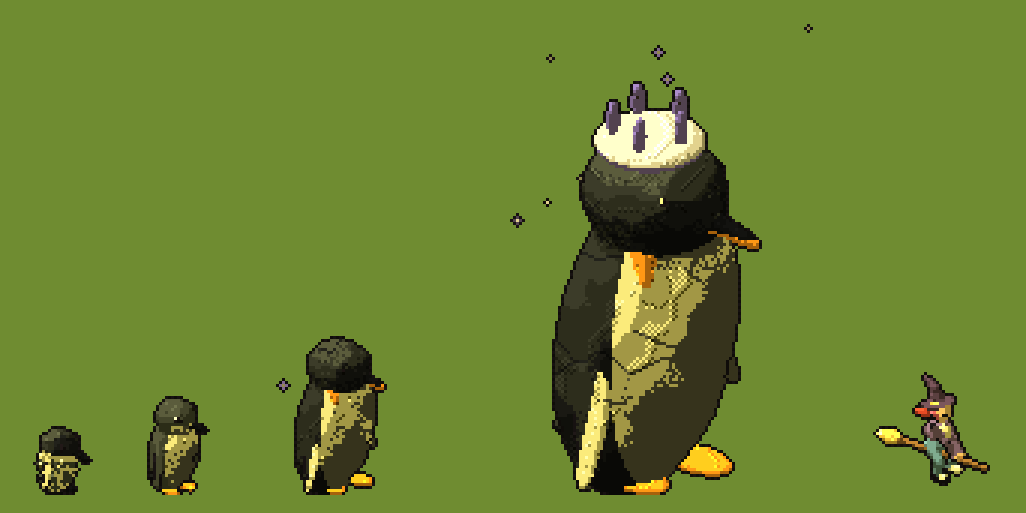
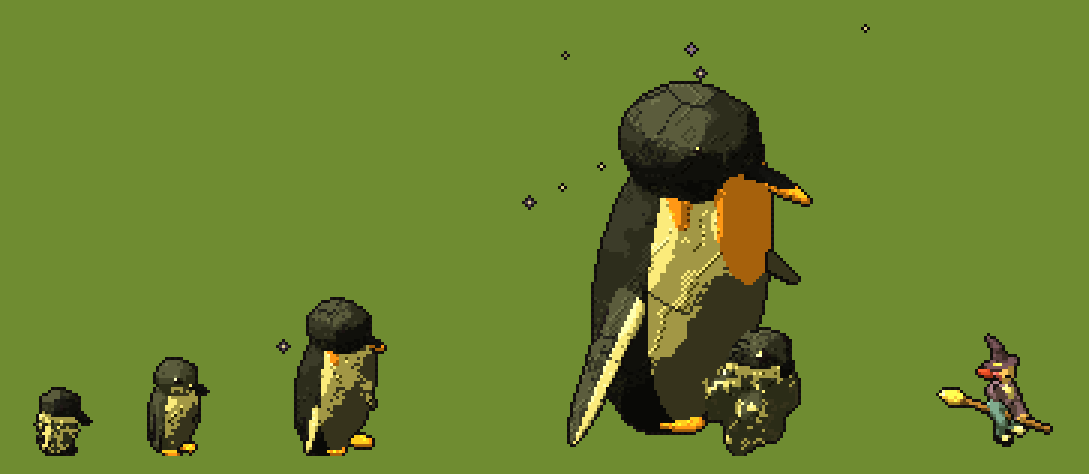
Penguin mock: the legend exaggerated (flippers flung wide, a blazing gorget, a longer beak, its chick on its feet) in place of the crown
Claude-Session: https://claude.ai/code/session_01CCJ1G3QaUxYK9jSu9176NM

diff --git a/art/creatures3d.js b/art/creatures3d.js
@@ -546,14 +546,16 @@ export function penguin3d(S, level, frame, st, facing = "towards") {
   const tilt = [.12, 1, rock];
   m.ell([0, .6, 0], [.58, .33, .3], down ? M.BELLY : young ? M.BODYL : M.BODY, { dir: tilt, up: [1, 0, 0], rough: down ? .035 : undefined, paint: p => down ? (spotty(p, 14, .45) ? M.BODYL : undefined) : p[0] > .1 - p[1] * .05 && p[1] < hy - hr * .6 ? M.BELLY : undefined });
   // flippers: flat, held out a little from its sides, their undersides pale (an adult's)
-  for (const side of [-1, 1]) m.ell([-.02, .6, side * .32], [.4, .08, .035], down ? M.BELLY : young ? M.BODYL : M.BODY, { dir: [.2, -1, side * (frame ? .65 : .45)], up: [1, 0, 0], group: side > 0 ? 4 : 2, paint: !down && !young ? p => p[0] > .02 ? M.BELLY : undefined : undefined });
+  for (const side of [-1, 1]) m.ell([-.02, .6 + (q.oars ? .06 : 0), side * .32], [q.oars ? .56 : .4, .08, .035], down ? M.BELLY : young ? M.BODYL : M.BODY, { dir: q.oars ? [.05, -.75, side * (frame ? 1 : .8)] : [.2, -1, side * (frame ? .65 : .45)], up: [1, 0, 0], group: side > 0 ? 4 : 2, paint: !down && !young ? p => p[0] > .02 ? M.BELLY : undefined : undefined });
   // head: small and round on a short neck, black (a young's grey-brown, a chick's down with a dark cap)
   m.ell([.04, hy, 0], [hr, hr * .92, hr * .9], down ? M.BELLY : young ? M.BODYL : M.BODY, { rough: down ? .02 : undefined, paint: down ? p => p[1] > hy - hr * .1 ? M.BODY : undefined : young ? p => p[0] > .04 + hr * .3 && p[1] < hy ? M.BELLY : undefined : undefined });
   // the adult's orange patch at either side of its neck, fading down onto its breast
   if (!down && !young) for (const side of [-1, 1]) m.ell([.1, hy - hr * .7, side * hr * .62], [hr * .55, hr * .3, hr * .16], M.FLOWER, { group: 1, dir: [.35, -1, side * .45] });
+  if (q.gorget) m.ell([.31, 1.0, 0], [.24, .045, .13], M.FLOWER, { group: 1, dir: [.12, -1, 0], up: [1, 0, 0] }); // the legend's gorget, blazing down its breast
   // beak: long and pointed, dark with an orange stripe along it (an adult's)
   const bc = Model.surface([.04, hy, 0], [hr, hr * .92, hr * .9], v3.norm([1, -.15, 0]));
-  m.ell(v3.add(bc, [hr * .4, -hr * .05, 0]), [hr * .55, hr * .13, hr * .12], M.BODY3, { dir: [1, -.18, 0], group: 1, paint: !down && !young ? p => p[1] < bc[1] - hr * .06 ? M.FLOWER : undefined : undefined });
+  m.ell(v3.add(bc, [hr * .4 * (q.beak ?? 1), -hr * .05, 0]), [hr * .55 * (q.beak ?? 1), hr * .13, hr * .12], M.BODY3, { dir: [1, -.18, 0], group: 1, paint: !down && !young ? p => p[1] < bc[1] - hr * .06 ? M.FLOWER : undefined : undefined });
+  if (q.chick) { const c = [.34, .16, 0]; m.ell(c, [.17, .16, .15], M.BODYL, { group: 7, rough: .035, dir: [0, 1, 0], up: [1, 0, 0], paint: p => spotty(p, 30, .35) ? M.BELLY : undefined }); m.ell([c[0] + .03, c[1] + .2, 0], [.1, .095, .095], M.BELLY, { group: 7, paint: p => p[1] > c[1] + .21 || p[0] < c[0] - .02 ? M.BODY : undefined }); m.ell([c[0] + .14, c[1] + .19, 0], [.045, .014, .014], M.BODY3, { dir: [1, -.2, 0], group: 7 }); eyesOn(m, [c[0] + .03, c[1] + .2, 0], [.1, .095, .095], [[.6, .35, .55], [.6, .35, -.55]], .018, M.EYE, 7); } // its downy chick standing on its feet before it
   eyesOn(m, [.04, hy, 0], [hr, hr * .92, hr * .9], [[.55, .3, .6], [.55, .3, -.6]], hr * .12, M.EYE);
   if (has("crown")) crown3d(m, [.02, hy + hr * .95, 0], hr * .75);
   m.anchors.neck = { c: [.02, hy - hr * .8, 0], r: hr * .8, dir: [0, 1, 0] };

diff --git a/art/genome/species.js b/art/genome/species.js
@@ -145,9 +145,11 @@ export const GENOMES = [
       { coat: { ridge: 2.2 }, features: [{ kind: "claws", hind: true }] },
     ] },
   // the penguin (unknown-14's icy shore, Ed 2026-10-12: more animals for later islands; art builder 2's record and builder): upright,
-  // black and white, a downy grey chick, a brown-grey young, an adult with an orange patch at its neck, and the island's legend crowned
+  // black and white, a downy grey chick, a brown-grey young, an adult with an orange patch at its neck, and the island's legend
+  // (Ed: exaggerate what makes it unusual): a towering emperor, its flippers flung wide like oars, a blazing orange gorget down
+  // its breast, a longer beak, and its chick standing on its feet under the fold of its belly
   { id: "penguin", name: "Penguin", template: "avian", builder: "penguin", palette: { hue: .62, sat: .2, val: .2, belly: "white", flower: [242, 150, 38] }, sizes: { head: [.34, .27, .24, .24], headY: [.98, 1.18, 1.24, 1.24] }, legend: ["crown"], texture: { kind: "feathers" },
-    levels: [{ body: { down: true } }, { body: { young: true } }, null, null] },
+    levels: [{ body: { down: true } }, { body: { young: true } }, null, { body: { oars: true, gorget: true, beak: 1.35, chick: true } }] },
   // the fen's newt (an area recipe's, #119; art builder 2's record): a slimmer, lower salamander with a crest along its back
   { id: "newt", name: "Newt", template: "quadruped", builder: "quad", palette: { hue: .08, sat: .55, val: .35, belly: "yellow" }, body: { hgt: .4, len: 1.1, chest: .1, tuck: .1, neck: .14, neckAng: .1, neckW: .45, hr: .28, legW: .6, bw: .22 }, head: { snout: .42, snoutD: .5 }, parts: { ears: { kind: "none" }, tail: "newt", feet: "paw" }, coat: { spots: true, spotMat: "belly", ridge: 2.4 }, legend: ["crystals"], texture: { kind: "smooth" } },
   // the heronry's heron (an area recipe's, #119; art builder 2's heron builder): a tall grey wader, S-necked, dagger-billed

diff --git a/docs/art-review/mocks/penguin/NOTES.md b/docs/art-review/mocks/penguin/NOTES.md
@@ -18,7 +18,7 @@ Its ages:
 - **Baby:** a downy grey chick with a dark cap.
 - **Young:** grey-brown, with a white front.
 - **Adult:** black and white, with an orange beak stripe and orange patches at its neck.
-- **Legend:** crowned.
+- **Legend** (revised after Ed's note: exaggerate what makes it unusual, not a generic crown): a towering emperor, its flippers flung wide like oars, a blazing orange gorget down its breast, a longer beak, and its downy chick standing on its feet before it, as emperors carry theirs.
 
 **Size against the witch:**
 - The chick is about a third of her height.
